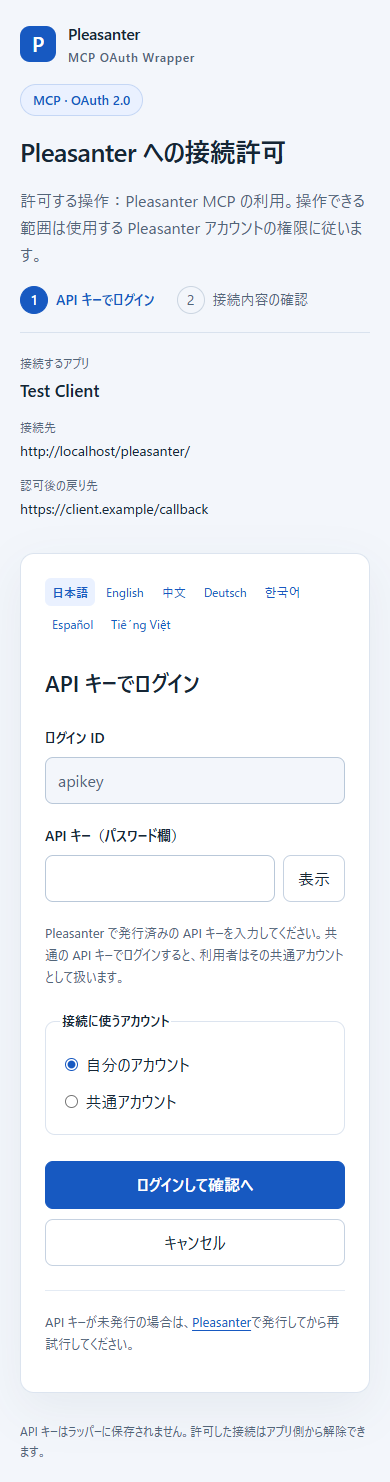
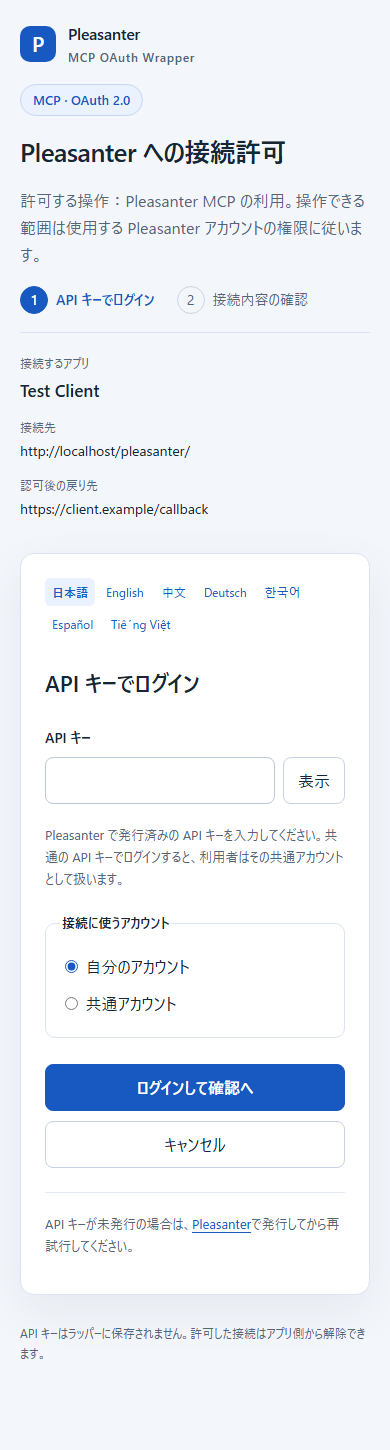
APIキー単独ログインの独自コミットを最新developへ取り込む
固定ログインIDを削除してapiKeyフォームに統一する元コミットd689b6cを取り込み、証明書の自動生成とOS・クラウド方式を維持する。Releaseビルド警告・エラー0件、通常96件成功、RedisとValkey各101件成功。実機連携は未検証。

diff --git a/tests/VehicleVision.PleasanterTools.McpOAuthWrapper.Tests/BridgeFlowTests.cs b/tests/VehicleVision.PleasanterTools.McpOAuthWrapper.Tests/BridgeFlowTests.cs
@@ -145,7 +145,7 @@ public sealed class BridgeFlowTests
             Assert.Single(initial.Headers.GetValues("Content-Security-Policy")));
         var page = await initial.Content.ReadAsStringAsync();
         using var consent = await PostAsync(browser, AuthorizationUrl(), page,
-            new() { ["decision"] = "login", ["loginId"] = "apikey", ["password"] = "original-key" });
+            new() { ["decision"] = "login", ["apiKey"] = "original-key" });
         Assert.Equal(initial.Headers.GetValues("Content-Security-Policy"), consent.Headers.GetValues("Content-Security-Policy"));
     }
     [Theory]
@@ -164,9 +164,9 @@ public sealed class BridgeFlowTests
         var page = await PageAsync(browser, url);
         Assert.Contains($"lang=\"{culture}\"", page);
         Assert.Contains(title, WebUtility.HtmlDecode(page));
-        var rejected = await PostAsync(browser, url, page, new() { ["decision"] = "login", ["loginId"] = "apikey", ["password"] = "wrong" });
+        var rejected = await PostAsync(browser, url, page, new() { ["decision"] = "login", ["apiKey"] = "wrong" });
         Assert.Contains(error, WebUtility.HtmlDecode(await rejected.Content.ReadAsStringAsync()));
-        var loggedIn = await PostAsync(browser, url, page, new() { ["decision"] = "login", ["loginId"] = "apikey", ["password"] = "original-key" });
+        var loggedIn = await PostAsync(browser, url, page, new() { ["decision"] = "login", ["apiKey"] = "original-key" });
         var consent = await loggedIn.Content.ReadAsStringAsync();
         Assert.Contains(title, WebUtility.HtmlDecode(consent));
         Assert.Contains("/account/consent?culture=" + culture, consent);
@@ -223,7 +223,7 @@ public sealed class BridgeFlowTests
         using var browser = factory.Browser();
         var url = AuthorizationUrl();
         var page = await PageAsync(browser, url);
-        var login = await PostAsync(browser, url, page, new() { ["decision"] = "login", ["loginId"] = "apikey", ["password"] = "original-key" });
+        var login = await PostAsync(browser, url, page, new() { ["decision"] = "login", ["apiKey"] = "original-key" });
         var consent = await login.Content.ReadAsStringAsync();
         factory.ChangeUser("ApiKey", "replacement-key");
         var approved = await PostAsync(browser, url, consent, new() { ["decision"] = "approve", ["ticket"] = Hidden(consent, "ticket") });
@@ -244,7 +244,7 @@ public sealed class BridgeFlowTests
         using var browser = factory.Browser();
         var url = AuthorizationUrl();
         var page = await PageAsync(browser, url);
-        var login = await PostAsync(browser, url, page, new() { ["decision"] = "login", ["loginId"] = "apikey", ["password"] = apiKey });
+        var login = await PostAsync(browser, url, page, new() { ["decision"] = "login", ["apiKey"] = apiKey });
         var html = await login.Content.ReadAsStringAsync();
         Assert.DoesNotContain("name=\"ticket\"", html);
         Assert.DoesNotContain(apiKey, html);
@@ -466,7 +466,7 @@ public sealed class BridgeFlowTests
         using var browser = factory.Browser();
         var url = AuthorizationUrl();
         var page = await PageAsync(browser, url);
-        var response = await PostAsync(browser, url, page, new() { ["decision"] = "login", ["loginId"] = "apikey", ["password"] = "original-key" });
+        var response = await PostAsync(browser, url, page, new() { ["decision"] = "login", ["apiKey"] = "original-key" });
         Assert.Equal(HttpStatusCode.OK, response.StatusCode);
         Assert.Contains("API キー", WebUtility.HtmlDecode(await response.Content.ReadAsStringAsync()));
         Assert.Null(response.Headers.Location);
@@ -482,7 +482,7 @@ public sealed class BridgeFlowTests
         using var browser = factory.Browser();
         var url = AuthorizationUrl();
         var page = await browser.GetStringAsync(url);
-        var response = await PostAsync(browser, url, page, new() { ["decision"] = "login", ["loginId"] = "apikey", ["password"] = password });
+        var response = await PostAsync(browser, url, page, new() { ["decision"] = "login", ["apiKey"] = password });
         var html = await response.Content.ReadAsStringAsync();
         Assert.DoesNotContain("name=\"ticket\"", html);
         Assert.Contains("ログインできません", WebUtility.HtmlDecode(html));
@@ -495,10 +495,10 @@ public sealed class BridgeFlowTests
         using var browser = factory.Browser();
         var url = AuthorizationUrl();
         var noCsrf = await browser.PostAsync("/account/login", new FormUrlEncodedContent(new Dictionary<string, string>
-        { ["decision"] = "login", ["loginId"] = "apikey", ["password"] = "original-key" }));
+        { ["decision"] = "login", ["apiKey"] = "original-key" }));
         Assert.Equal(HttpStatusCode.BadRequest, noCsrf.StatusCode);
         var login = await browser.GetStringAsync(url);
-        var consentResponse = await PostAsync(browser, url, login, new() { ["decision"] = "login", ["loginId"] = "apikey", ["password"] = "original-key" });
+        var consentResponse = await PostAsync(browser, url, login, new() { ["decision"] = "login", ["apiKey"] = "original-key" });
         var consent = await consentResponse.Content.ReadAsStringAsync();
         var form = new Dictionary<string, string> { ["decision"] = "approve", ["ticket"] = Hidden(consent, "ticket") };
         var approval = await PostAsync(browser, url, consent, form);
@@ -522,8 +522,7 @@ public sealed class BridgeFlowTests
         var response = await PostAsync(browser, url, page, new()
         {
             ["decision"] = decision,
-            ["loginId"] = "apikey",
-            ["password"] = "wrong"
+            ["apiKey"] = "wrong"
         });
         Assert.DoesNotContain("name=\"ticket\"", await response.Content.ReadAsStringAsync());
         Assert.DoesNotContain("code=", response.Headers.Location?.Query ?? "");
@@ -560,7 +559,7 @@ public sealed class BridgeFlowTests
     }
 
     [Fact]
-    public async Task 別OriginとURL内のトークンとログインIDへのSQL注入を拒否する()
+    public async Task 別OriginとURL内のトークンとAPIキーへのSQL注入を拒否する()
     {
         using var factory = new BridgeFactory();
         using var browser = factory.Browser();
@@ -574,8 +573,7 @@ public sealed class BridgeFlowTests
         var injected = await PostAsync(browser, url, page, new()
         {
             ["decision"] = "login",
-            ["loginId"] = "alice' OR 1=1 --",
-            ["password"] = "original-key"
+            ["apiKey"] = "alice' OR 1=1 --"
         });
         Assert.DoesNotContain("name=\"ticket\"", await injected.Content.ReadAsStringAsync());
         Assert.Empty(factory.Upstream.Keys);
@@ -639,34 +637,29 @@ public sealed class BridgeFlowTests
         var url = AuthorizationUrl();
         var login = await browser.GetStringAsync(url);
         for (var i = 0; i < 5; i++)
-            await PostAsync(browser, url, login, new() { ["decision"] = "login", ["loginId"] = "apikey", ["password"] = "wrong" });
-        var correct = await PostAsync(browser, url, login, new() { ["decision"] = "login", ["loginId"] = "apikey", ["password"] = "original-key" });
+            await PostAsync(browser, url, login, new() { ["decision"] = "login", ["apiKey"] = "wrong" });
+        var correct = await PostAsync(browser, url, login, new() { ["decision"] = "login", ["apiKey"] = "original-key" });
         Assert.DoesNotContain("name=\"ticket\"", await correct.Content.ReadAsStringAsync());
     }
 
     [Fact]
-    public async Task 設定した固定ログインIDだけを受け入れAPIキーを画面へ返さない()
+    public async Task ログインIDなしでAPIキーだけで認証しキーを画面へ返さない()
     {
-        using var factory = new BridgeFactory(apiKeyLoginId: "connector");
+        using var factory = new BridgeFactory();
         using var browser = factory.Browser();
         var url = AuthorizationUrl();
         var page = await PageAsync(browser, url);
-        Assert.Contains("value=\"connector\"", page);
-        var rejected = await PostAsync(browser, url, page, new()
-        {
-            ["decision"] = "login",
-            ["loginId"] = "apikey",
-            ["password"] = "original-key"
-        });
-        Assert.DoesNotContain("name=\"ticket\"", await rejected.Content.ReadAsStringAsync());
+        Assert.DoesNotContain("name=\"loginId\"", page);
+        Assert.DoesNotContain("name=\"password\"", page);
+        Assert.Contains("name=\"apiKey\"", page);
         var accepted = await PostAsync(browser, url, page, new()
         {
             ["decision"] = "login",
-            ["loginId"] = "connector",
-            ["password"] = "original-key"
+            ["apiKey"] = "original-key"
         });
         var html = await accepted.Content.ReadAsStringAsync();
         Assert.Contains("name=\"ticket\"", html);
+        Assert.Contains("alice", html);
         Assert.DoesNotContain("original-key", html);
     }
     private const string Callback = "https://client.example/callback";
@@ -698,8 +691,7 @@ public sealed class BridgeFlowTests
         var loggedIn = await PostAsync(browser, url, page, new()
         {
             ["decision"] = "login",
-            ["loginId"] = "apikey",
-            ["password"] = loginId == "bob" ? "bob-key" : loginId == "shared" ? "shared-key" : "original-key",
+            ["apiKey"] = loginId == "bob" ? "bob-key" : loginId == "shared" ? "shared-key" : "original-key",
             ["keyMode"] = shared ? "shared" : "personal"
         });
         var consent = await loggedIn.Content.ReadAsStringAsync();
@@ -756,16 +748,14 @@ public sealed class BridgeFlowTests
         public string KvsPrefix { get; }
         private readonly bool _shared;
         private readonly bool _dynamicRegistration;
-        private readonly string _apiKeyLoginId;
         private readonly string _issuer;
         private readonly string _upstream;
         public BridgeFactory(bool shared = false, bool dynamicRegistration = false,
-            string issuer = "http://localhost/", string upstream = "http://localhost/pleasanter/", string apiKeyLoginId = "apikey", string? kvsPrefix = null, int maxDynamicClients = 100)
+            string issuer = "http://localhost/", string upstream = "http://localhost/pleasanter/", string? kvsPrefix = null, int maxDynamicClients = 100)
         {
             KvsPrefix = kvsPrefix ?? "test-" + Guid.NewGuid().ToString("N");
             _shared = shared;
             _dynamicRegistration = dynamicRegistration;
-            _apiKeyLoginId = apiKeyLoginId;
             _issuer = issuer;
             _upstream = upstream;
             Directory.CreateDirectory(Path.Combine(Root, "App_Data", "Parameters"));
@@ -773,7 +763,6 @@ public sealed class BridgeFlowTests
             File.WriteAllText(Path.Combine(parameters, "General.json"), JsonSerializer.Serialize(new BridgeOptions
             {
                 Enabled = true,
-                ApiKeyLoginId = _apiKeyLoginId,
                 Issuer = _issuer,
                 PleasanterUrl = _upstream,
                 AllowDevelopmentHttp = true,

diff --git a/src/VehicleVision.PleasanterTools.McpOAuthWrapper/Controllers/AuthorizationController.cs b/src/VehicleVision.PleasanterTools.McpOAuthWrapper/Controllers/AuthorizationController.cs
@@ -16,7 +16,7 @@ namespace VehicleVision.PleasanterTools.McpOAuthWrapper.Controllers;
 
 public sealed record ConsentView(string ClientName, string RedirectUri, string ActionUrl,
     string PleasanterUrl, bool AllowSharedKey, string RequestTicket, string? Error = null,
-    string? Ticket = null, string? LoginId = null, string? KeyDescription = null, string ApiKeyLoginId = "apikey");
+    string? Ticket = null, string? LoginId = null, string? KeyDescription = null);
 
 [EnableRateLimiting("oauth")]
 [RequestSizeLimit(16384)]
@@ -62,10 +62,10 @@ public sealed class AuthorizationController(BridgeOptions options, IPleasanterUs
         return View("Consent", ViewFor(info));
     }
 
-    // パスワードは OAuth エンドポイントへ送らず、プロトコルのログに混入させない。
+    // API キーは OAuth エンドポイントへ送らず、プロトコルのログに混入させない。
     [HttpPost("/account/login")]
     [ValidateAntiForgeryToken]
-    public async Task<IActionResult> Login([FromForm] string? loginId, [FromForm] string? password,
+    public async Task<IActionResult> Login([FromForm] string? apiKey,
         [FromForm] string? keyMode, [FromForm] string? requestTicket, [FromForm] string? decision,
         CancellationToken cancellationToken)
     {
@@ -73,12 +73,12 @@ public sealed class AuthorizationController(BridgeOptions options, IPleasanterUs
         if (info is null) return BadRequest();
         if (decision == "deny") return Denied(info);
         var attemptId = "api-key-ip:" + (HttpContext.Connection.RemoteIpAddress?.ToString() ?? "unknown");
-        if (decision != "login" || !string.Equals(loginId, options.ApiKeyLoginId, StringComparison.Ordinal)
-            || string.IsNullOrEmpty(password) || password.Length > 1024
+        if (decision != "login"
+            || string.IsNullOrEmpty(apiKey) || apiKey.Length > 1024
             || !await guard.TryAttemptAsync(options.TenantId, attemptId, cancellationToken))
             return View("Consent", ViewFor(info, text["LoginFailed"].Value));
-        var authenticated = await users.FindByApiKeyAsync(options.TenantId, password, cancellationToken);
-        if (authenticated is null || !authenticated.VerifyApiKey(password) || !authenticated.CanUseApi(options.DatabaseNow))
+        var authenticated = await users.FindByApiKeyAsync(options.TenantId, apiKey, cancellationToken);
+        if (authenticated is null || !authenticated.VerifyApiKey(apiKey) || !authenticated.CanUseApi(options.DatabaseNow))
             return View("Consent", ViewFor(info, text["LoginFailed"].Value));
         await guard.ReleaseAsync(options.TenantId, attemptId, cancellationToken);
         var ownerId = keyMode == "shared" ? options.SharedApiKeyUserId ?? 0 : authenticated.UserId;
@@ -149,7 +149,7 @@ public sealed class AuthorizationController(BridgeOptions options, IPleasanterUs
         var callback = new Uri(info.RedirectUri).GetLeftPart(UriPartial.Authority);
         Response.Headers["Content-Security-Policy"] = $"default-src 'none'; style-src 'self'; script-src 'self'; form-action 'self' {callback}; frame-ancestors 'none'; base-uri 'none'";
         return new(info.ClientName, info.RedirectUri, CultureUrl("/account/login"), options.PleasanterUrl,
-            options.SharedApiKeyUserId.HasValue, Protect(info), error, ApiKeyLoginId: options.ApiKeyLoginId);
+            options.SharedApiKeyUserId.HasValue, Protect(info), error);
     }
     private static string CultureUrl(string path) => path + "?culture=" + Uri.EscapeDataString(System.Globalization.CultureInfo.CurrentUICulture.Name);
     private string Protect<T>(T data) => Protector<T>().Protect(JsonSerializer.Serialize(data), TimeSpan.FromMinutes(5));

diff --git a/src/VehicleVision.PleasanterTools.McpOAuthWrapper/Bridge/BridgeSetup.cs b/src/VehicleVision.PleasanterTools.McpOAuthWrapper/Bridge/BridgeSetup.cs
@@ -28,8 +28,6 @@ public static class BridgeSetup
             throw new InvalidOperationException("Dbms は PostgreSQL、SQLServer、MySQL のいずれかです。");
         if (options.TenantId <= 0 || options.SharedApiKeyUserId is <= 0)
             throw new InvalidOperationException("TenantId と共通キーの所有者 ID を確認してください。");
-        if (string.IsNullOrWhiteSpace(options.ApiKeyLoginId) || options.ApiKeyLoginId.Length > 256)
-            throw new InvalidOperationException("ApiKeyLoginId は1～256文字で設定してください。");
         if (options.MaxDynamicClients is < 1 or > 10000)
             throw new InvalidOperationException("MaxDynamicClients は 1～10000 で設定してください。");
         _ = TimeZoneInfo.FindSystemTimeZoneById(options.DatabaseTimeZoneId);

diff --git a/src/VehicleVision.PleasanterTools.McpOAuthWrapper/Bridge/BridgeOptions.cs b/src/VehicleVision.PleasanterTools.McpOAuthWrapper/Bridge/BridgeOptions.cs
@@ -3,7 +3,6 @@ namespace VehicleVision.PleasanterTools.McpOAuthWrapper.Bridge;
 public sealed class BridgeOptions
 {
     public bool Enabled { get; set; }
-    public string ApiKeyLoginId { get; set; } = "apikey";
     public string Issuer { get; set; } = "https://localhost:7042/";
     public string PleasanterUrl { get; set; } = "https://localhost/";
     public int TenantId { get; set; } = 1;

diff --git a/_development/検証記録.md b/_development/検証記録.md
@@ -1,5 +1,13 @@
 # Docker 実機検証記録
 
+## API キー単独ログインの最新 develop への取り込み（2026-10-10）
+
+ローカルのコミット d689b6c を、証明書方式を追加済みの最新 develop へ取り込みました。固定ログイン ID の入力欄・ApiKeyLoginId 設定・照合を削除し、フォームの apiKey に統一しています。7言語の文言・ガイド画像と資料も同じ変更を取り込みました。画像は2026-10-08の合成環境で撮影したもので、今回の実機接続を示しません。
+
+Windows の Release ビルドは警告・エラー0件、通常テストは96件成功・KVS専用5件スキップでした。一時 Redis 8.2／Valkey 9.1.2 のテストは各101件すべて成功しました。ログイン ID なしでの認証、API キーを画面へ返さないこと、同意・PKCE・更新・失効と主体の検証、証明書の自動生成・再読込を含みます。Markdown・画面アセット・指示同期・参照混入検査も成功しました。Pleasanter 実機・AI アプリ・クラウド実環境の再検証は未実施です。
+
+今回の取り込みは Issue #42 で管理します。元のコミットはローカルの backup/develop-20261010-api-key-only-login に保持します。後述の2026-10-08の記録は当時の検証・未完了事項の履歴です。
+
 ## OAuth 証明書の取得方式（2026-10-10）
 
 Windows で Release ビルド（警告・エラー0件）と通常テスト96件の成功、KVS専用5件のスキップを確認しました。追加試験では、有効期限10年・用途別RSA4096の自動生成、同時生成での同一証明書の採用、再読込、破損した保存済みPFXの上書き拒否、保存先ACL、Productionホスト再起動後のData Protection状態復号、入力方式の排他を確認しました。Windows証明書ストアでは非エクスポート秘密鍵の署名を確認しています。
@@ -91,3 +99,13 @@ SQL Server の暗号化設定について、省略・False・Optional・True・S
 リリース候補 v0.1.0 の版検査、ZIP と SHA-256 の生成、秘密・実設定・参照ソースの除外をローカルで確認しました。実際のリリースタグ作成と GitHub Releases 公開は実行していません。PR の Release ワークフローで公開しない経路も検査します。
 
 認可コードを同時に交換した場合は、再利用検出により認可全体を失効し、両方の交換を拒否する場合があります。HTTP テストは二重発行なし・拒否が invalid_grant・エラー応答にトークンなしを確認します。ストアの原子的な消費は2並列の成功1件と、最新版の再読み込み後の再消費拒否を確認します。根拠：[RFC 6749 §4.1.2](https://www.rfc-editor.org/rfc/rfc6749#section-4.1.2)。参照日：2026-10-06。
+
+## API キーだけのログイン入力（2026-10-08）
+
+固定ログイン ID 欄と ApiKeyLoginId 設定・照合を削除し、フォームは apiKey だけで利用者を認証する形へ変更しました。共通権限の選択、同意、Authorization Code + PKCE、Users の状態検証、API キー非保存は維持します。
+
+通常の Release ビルドは警告・エラー0件で成功しました。Windows サンドボックスでは開発用証明書ストアとイベントログへのアクセスが拒否され、通常設定での HTTP テストは実行できませんでした。検証時だけ開発用証明書をメモリ上の一時署名・暗号化鍵に差し替え、イベントログ出力を無効化した実行では、通常テスト64件が成功し、KVS専用5件をスキップしました。追加の画面撮影用テスト1件も成功しました。検証用の鍵変更と画面撮影用テストは実行後に削除し、通常設定で Release ビルドを再実行しました。KVS・Pleasanter 実機・AI アプリ経由の再検証は実施していません。
+
+ガイドの7言語・エラー・モバイルのログイン画像は、合成 Users を使う HTTP テストから生成した HTML をヘッドレス Chrome で描画しました。撮影用 HTML の hidden 入力を除去し、キーやトークンを画像へ含めていません。変更していない同意画面は従来の合成環境の画像です。
+
+Issue 作成は GitHub 連携の組織 SSO 制限で拒否され、利用者の了承により後回しにしました。実装時点ではサンドボックスで .git が読み取り専用でしたが、利用者のコミット指示後に書き込み権限を取得し、develop から fix/api-key-only-login ブランチを作成しました。PR 作成は未実施です。

diff --git a/_documents/利用ガイド.md b/_documents/利用ガイド.md
@@ -1,6 +1,6 @@
 # 接続の流れと画面
 
-接続前に Pleasanter で API キーを発行してください。本書の画面は検証環境で撮影した実際のラッパーです。AI アプリ側の画面は製品や組織設定によって異なります。
+接続前に Pleasanter で API キーを発行してください。本書のログイン画面・エラー画面・モバイル画面は、合成 Users を使った HTTP テストでラッパーが生成した HTML をブラウザーで描画したものです。同意画面は従来の合成データ検証環境で撮影したラッパーです。AI アプリ側の画面は製品や組織設定によって異なります。
 
 ```mermaid
 sequenceDiagram
@@ -10,7 +10,7 @@ sequenceDiagram
     participant Pleasanter
     AIアプリ->>ラッパー: MCP 接続と OAuth 認可要求
     ラッパー->>利用者: ログイン画面
-    利用者->>ラッパー: 固定ログイン ID と発行済み API キー
+    利用者->>ラッパー: 発行済み API キー
     ラッパー->>Pleasanter: Users を読み取り、キーとアカウントを確認
     ラッパー->>利用者: 接続先・アプリ・利用する権限の確認
     利用者->>ラッパー: 接続を許可
@@ -22,7 +22,7 @@ sequenceDiagram
 
 ## 1. ログイン
 
-AI アプリでコネクタを接続すると、この画面へ移ります。ログイン ID は固定値（既定 apikey）です。API キーをパスワード欄へ入力し、使用するアカウントを選びます。共通アカウントの選択肢は管理者が設定した場合だけ表示されます。
+AI アプリでコネクタを接続すると、この画面へ移ります。発行済みの API キーを入力し、使用するアカウントを選びます。共通アカウントの選択肢は管理者が設定した場合だけ表示されます。
 
 ![ログイン画面](images/login-ja.png)
 

diff --git a/_documents/アーキテクチャ方針.md b/_documents/アーキテクチャ方針.md
@@ -4,7 +4,7 @@
 
 OpenIddict による Authorization Code + PKCE（S256）の認可サーバーと、YARP による HTTP 中継を提供する。MCP のツール・メッセージは解釈せず、GET／POST／DELETE と SSE を Pleasanter に中継する。Pleasanter のアセンブリ・MCP ツール定義・バージョン番号には依存しない。
 
-ログイン ID は General.json の ApiKeyLoginId（初期値 apikey）と完全一致で検証し、パスワード欄に入力された API キーを固定 TenantId 内の Users と照合する。SQL はパラメーター化し、キーの照合が大文字小文字を区別しないデータベースでも、取得した値と固定時間比較する。重複キーは拒否する。無効化・ロックアウト・利用期限を確認し、データベースへの書き込みは行わない。Password と TOTP 登録状態は認証に使わない。
+ログイン画面では API キーだけを入力し、固定 TenantId 内の Users と照合して利用者を特定する。SQL はパラメーター化し、キーの照合が大文字小文字を区別しないデータベースでも、取得した値と固定時間比較する。重複キーは拒否する。無効化・ロックアウト・利用期限を確認し、データベースへの書き込みは行わない。Password と TOTP 登録状態は認証に使わない。
 
 個人の API キーで認証した利用者は、個人または管理者が指定した共通アカウントを選び、認可画面で確認する。OAuth の主体はログインした本人で、API キー所有者 ID を別に保持する。共通キーの場合、Pleasanter 側の操作主体・権限・監査は共通アカウントになる。
 
